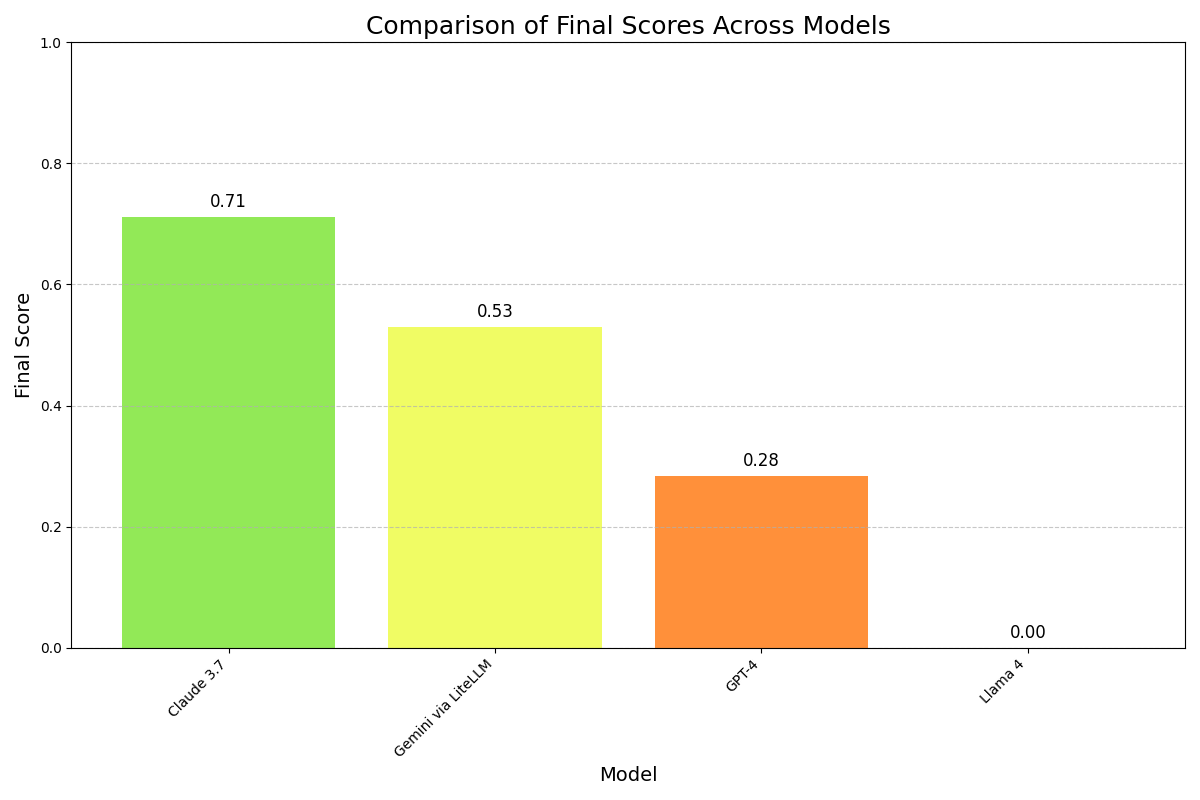
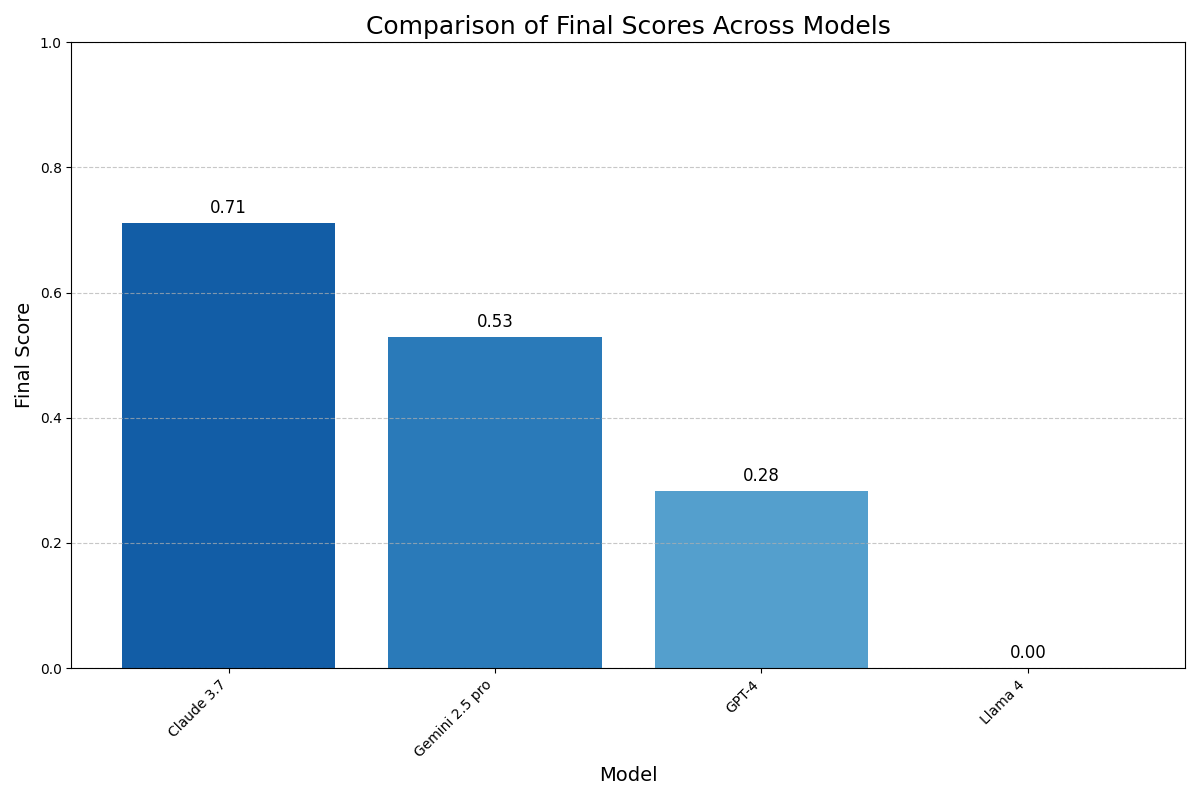
docs: update readme

diff --git a/project/paperbench/runs/compar.py b/project/paperbench/runs/compar.py
@@ -3,8 +3,6 @@ import os
 import glob
 import matplotlib.pyplot as plt
 import numpy as np
-import pandas as pd
-from matplotlib.colors import LinearSegmentedColormap
 from pathlib import Path
 import matplotlib.gridspec as gridspec
 
@@ -54,8 +52,8 @@ for file_path in result_files:
             display_name = "GPT-4"
         elif "llama" in agent_match.lower():
             display_name = "Llama 4"
-        elif "litellm" in agent_match.lower():
-            display_name = "Gemini via LiteLLM"
+        elif "litellm" in agent_match.lower() or "gemini" in agent_match.lower():
+            display_name = "Gemini 2.5 pro"
         else:
             display_name = agent_match
         
@@ -86,17 +84,18 @@ if model_data:
     # Sort by final score (descending)
     model_data.sort(key=lambda x: x['final_score'], reverse=True)
     
+    # Use a single consistent colormap - Blues
+    cmap = plt.colormaps['Blues']
+    
+    # Create consistent colors for each model (darker blue = higher score)
+    model_colors = [cmap(0.4 + 0.6 * score) for score in [m['final_score'] for m in model_data]]
+    
     # 1. Bar chart of final scores
     plt.figure(figsize=(12, 8))
     labels = [m['display_name'] for m in model_data]
     scores = [m['final_score'] for m in model_data]
     
-    # Create colormap
-    colors = ["#ff0000", "#ffff66", "#00cc44"]  # Red to yellow to green
-    custom_cmap = LinearSegmentedColormap.from_list("red_to_green", colors, N=256)
-    bar_colors = [custom_cmap(score) for score in scores]
-    
-    bars = plt.bar(labels, scores, color=bar_colors)
+    bars = plt.bar(labels, scores, color=model_colors)
     plt.ylim(0, 1)
     plt.xlabel('Model', fontsize=14)
     plt.ylabel('Final Score', fontsize=14)
@@ -114,56 +113,32 @@ if model_data:
     plt.savefig(output_dir / "score_comparison.png")
     plt.close()
     
-    # 2. Grid of model trees with bar chart
-    # Create a 2x3 grid (or adjust based on number of models)
-    rows = 2
-    cols = 3
-    fig = plt.figure(figsize=(20, 15))
-    grid = gridspec.GridSpec(rows, cols, figure=fig)
+    # 2. Grid of model trees - exactly 2x2
+    fig = plt.figure(figsize=(20, 20))
     
-    # Add bar chart at the top spanning multiple columns
-    ax_bar = fig.add_subplot(grid[0, :2])  # Top-left spanning 2 columns
-    bars = ax_bar.bar(labels, scores, color=bar_colors)
-    ax_bar.set_ylim(0, 1)
-    ax_bar.set_title('Model Performance Comparison', fontsize=16)
-    ax_bar.grid(axis='y', linestyle='--', alpha=0.7)
-    for bar in bars:
-        height = bar.get_height()
-        ax_bar.text(bar.get_x() + bar.get_width()/2., height + 0.01,
-                f'{height:.2f}', ha='center', va='bottom', fontsize=12)
-    
-    # Create a table to show final scores
-    ax_table = fig.add_subplot(grid[0, 2])  # Top-right
-    cell_text = [[m['display_name'], f"{m['final_score']:.2f}"] for m in model_data]
-    ax_table.axis('tight')
-    ax_table.axis('off')
-    table = ax_table.table(cellText=cell_text, 
-                          colLabels=['Model', 'Score'],
-                          loc='center',
-                          cellLoc='center')
-    table.auto_set_font_size(False)
-    table.set_fontsize(12)
-    table.scale(1, 1.5)
-    ax_table.set_title("Final Scores", fontsize=16)
+    # Create a simple 2x2 grid
+    gs = gridspec.GridSpec(2, 2, figure=fig)
     
     # Add model thumbnail images from the tree visualizations
     for i, model in enumerate(model_data):
-        if i < (rows-1) * cols:  # Limit to available grid slots
-            row_idx = 1 + i // cols
-            col_idx = i % cols
+        if i >= 4:  # Only show top 4 models
+            break
             
-            ax = fig.add_subplot(grid[row_idx, col_idx])
-            
-            # Get the visualization file for this model
-            viz_file = output_dir / f"{model['model_name']}_{model['agent_type']}_tree.png"
-            if viz_file.exists():
-                img = plt.imread(viz_file)
-                ax.imshow(img)
-                ax.set_title(f"{model['display_name']} ({model['final_score']:.2f})", fontsize=14)
-            else:
-                ax.text(0.5, 0.5, "Visualization not available", 
-                       ha='center', va='center', fontsize=12)
-            ax.axis('off')
+        row_idx = i // 2
+        col_idx = i % 2
+        
+        ax = fig.add_subplot(gs[row_idx, col_idx])
+        
+        # Get the visualization file for this model
+        viz_file = output_dir / f"{model['model_name']}_{model['agent_type']}_tree.png"
+        if viz_file.exists():
+            img = plt.imread(viz_file)
+            ax.imshow(img)
+            ax.set_title(f"{model['display_name']} - Score: {model['final_score']:.2f}", fontsize=16)
+        else:
+            ax.text(0.5, 0.5, "Visualization not available", 
+                   ha='center', va='center', fontsize=12)
+        ax.axis('off')
     
     plt.tight_layout()
     plt.savefig(output_dir / "model_comparison_grid.png")
@@ -186,14 +161,14 @@ if model_data:
     ax.axis('tight')
     ax.axis('off')
     
-    # Set custom colors for rows based on scores
+    # Set consistent blue-themed colors for rows
     cell_colors = []
-    for model in model_data:
-        score = model['final_score']
-        color = custom_cmap(score)
-        # Make a slightly lighter version for better readability
-        lighter_color = [min(1.0, c * 1.3) for c in color[:3]] + [0.3]  # Last value is alpha
-        cell_colors.append([lighter_color, lighter_color, lighter_color])
+    for i, model in enumerate(model_data):
+        color = cmap(0.3 + 0.7 * model['final_score'])  # Scale to use middle-to-high range of colormap
+        # Add slight alpha for better readability
+        adjusted_color = (*color[:3], 0.3)  # RGB with alpha 0.3
+        row_color = [adjusted_color] * 3  # Apply to all cells in the row
+        cell_colors.append(row_color)
     
     table = ax.table(cellText=table_data,
                     colLabels=["Rank", "Model", "Score"],

diff --git a/project/paperbench/runs/README.md b/project/paperbench/runs/README.md
@@ -9,7 +9,7 @@ The `images` directory contains score tree visualizations for different models' 
 - Claude 3.7 (Anthropic)
 - GPT-4 (OpenAI)
 - Llama 4
-- Gemini 2.5 pro via LiteLLM
+- Gemini 2.5 pro
 
 ### Comparative Analysis
 
@@ -19,19 +19,7 @@ The `images` directory contains score tree visualizations for different models' 
 #### Overview Comparison
 ![Model Comparison Grid](images/model_comparison_grid.png)
 
-### Individual Model Visualizations
-
-#### Claude (Anthropic)
-![Claude Score Tree](images/rice_aisi-basic-agent-anthropic-dev_tree.png)
-
-#### GPT-4 (OpenAI)
-![OpenAI Score Tree](images/rice_aisi-basic-agent-openai-dev_tree.png)
-
-#### Llama 4
-![Llama4 Score Tree](images/rice_aisi-basic-agent-llama4-dev_tree.png)
-
-#### Gemini via LiteLLM
-![Gemini LiteLLM Score Tree](images/rice_aisi-basic-agent-gemini-litellm-dev_tree.png)
+#### Experiments Settings
 
 All runs:
 - Used the "code only" version of the agents (no paper content provided)
